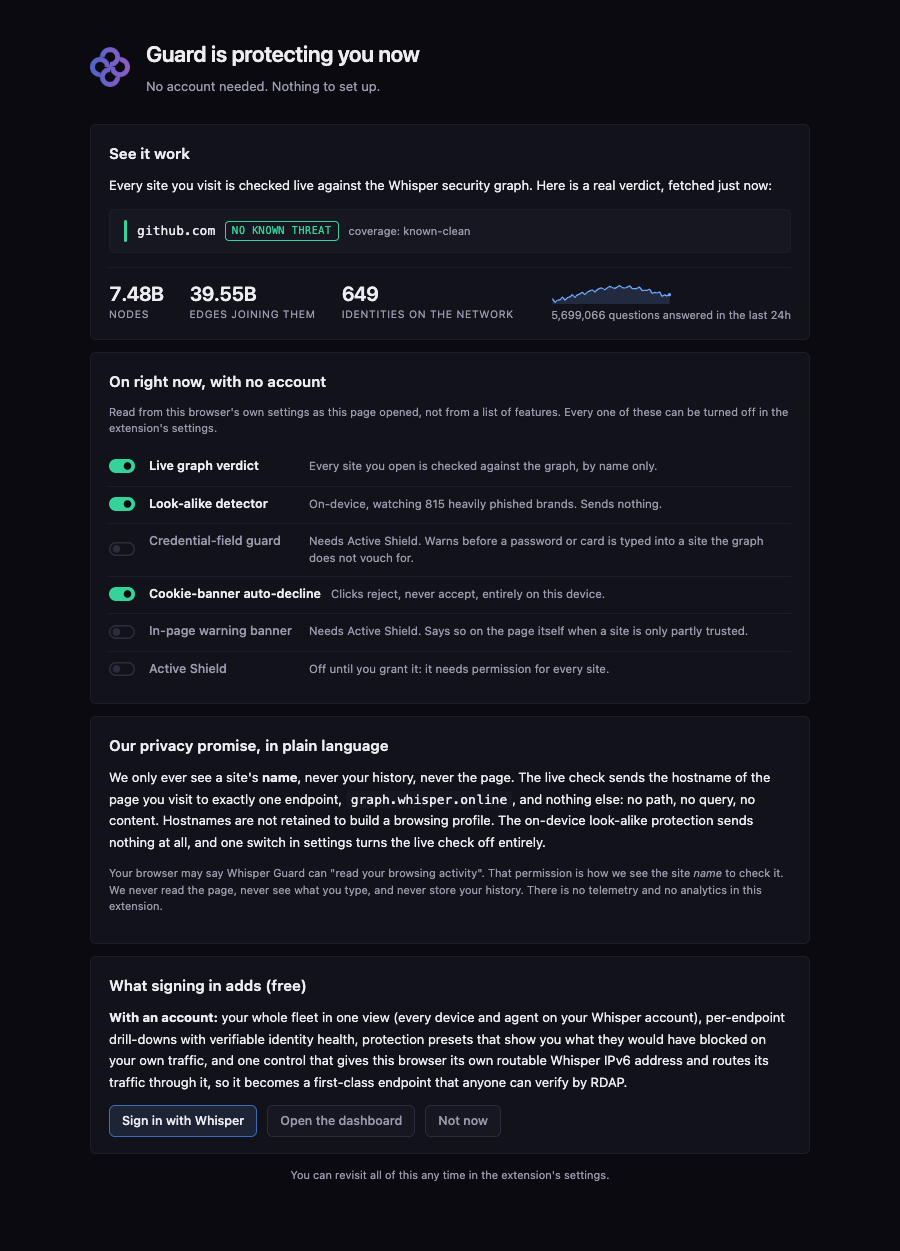
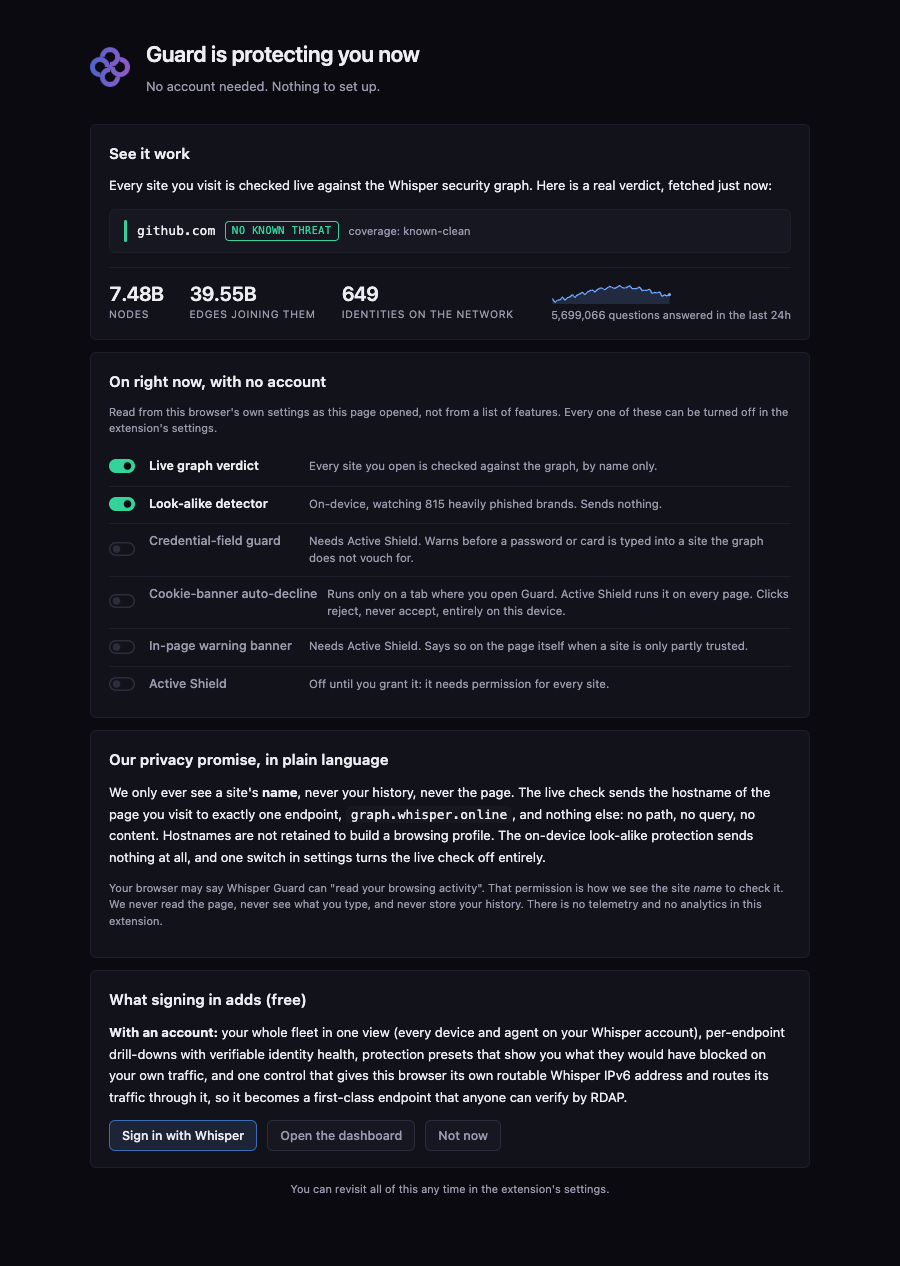
fix(firstrun): say where cookie auto-decline can run
The first-run page drew "Cookie-banner auto-decline" as on from the stored
setting alone. Without Active Shield the decline runs only on a tab where
the reader opens Guard, so the row claimed more than was happening.

The first-run row and the Settings toggle now say where it runs: only on a
tab where Guard is opened, or on every page once Active Shield is on and
the all-sites permission is held. The first-run row is drawn on only in the
second case. The Settings toggle stays usable and keeps the stored
preference; a note beside it carries the reach and updates without a
reload.

Refs #66

diff --git a/e2e/shield-dependent.spec.ts b/e2e/shield-dependent.spec.ts
@@ -4,8 +4,9 @@
 // The credential-field guard and the in-page banner cannot run until Active
 // Shield is on (the setting AND the all-sites grant). Neither the first-run
 // page nor Settings may draw them on before then, and the stored preference
-// must survive. The grant arrives install-time via makeShieldDist; the
-// default dist holds no grant.
+// must survive. The cookie decline runs without Active Shield, but only on a
+// tab where Guard is opened, so both pages say where it can run. The grant
+// arrives install-time via makeShieldDist; the default dist holds no grant.
 
 import { test, expect, type Page } from "@playwright/test";
 import { launchExtension, makeShieldDist, setSettings, type Extension } from "./helpers/extension";
@@ -63,6 +64,37 @@ test.describe("no all-sites grant", () => {
     expect(s["amberBanner"]).toBe(true);
     expect(s["fieldGuard"]).toBe(true);
     await page.close();
+  });
+
+  test("cookie decline: on a fresh profile both pages say it runs only on a tab where Guard is opened", async () => {
+    // Nothing is stored yet: the defaults are what a new install shows.
+    const first = await open(ext, "firstrun.html");
+    await expect(row(first, "cookieDecline")).toHaveAttribute("data-state", "tab-only");
+    await expect(row(first, "cookieDecline")).toContainText(/only on a tab where you open Guard/i);
+    await expect(row(first, "cookieDecline")).toContainText("Clicks reject, never accept, entirely on this device.");
+    await expect(row(first, "cookieDecline").locator("svg title")).toHaveText("only on a tab where you open Guard");
+    await first.close();
+    const opts = await open(ext, "options.html");
+    await expect(opts.locator("#opt-cookiedecline")).toBeChecked();
+    await expect(opts.locator("#opt-cookiedecline")).toBeEnabled();
+    await expect(opts.locator("#opt-cookiedecline")).toHaveAttribute("aria-describedby", "cookiedecline-reach");
+    await expect(opts.locator("#cookiedecline-reach")).toBeVisible();
+    await expect(opts.locator("#cookiedecline-reach")).toHaveText(/only on a tab where you open Guard/i);
+    await opts.close();
+  });
+
+  test("cookie decline: switched off it reads off on both pages", async () => {
+    await setSettings(ext, { cookieDecline: false });
+    const first = await open(ext, "firstrun.html");
+    await expect(row(first, "cookieDecline")).toHaveAttribute("data-state", "off");
+    await first.close();
+    const opts = await open(ext, "options.html");
+    await expect(opts.locator("#opt-cookiedecline")).not.toBeChecked();
+    await expect(opts.locator("#cookiedecline-reach")).toBeAttached();
+    await expect(opts.locator("#cookiedecline-reach")).toBeHidden();
+    await expect(opts.locator("#cookiedecline-reach")).toHaveText("");
+    await opts.close();
+    await setSettings(ext, { cookieDecline: true });
   });
 });
 
@@ -128,5 +160,59 @@ test.describe("all-sites grant held", () => {
     await expect(opts.locator("#opt-fieldguard")).toBeEnabled();
     await expect(opts.locator("#banner-needs")).toBeHidden();
     await opts.close();
+  });
+
+  test("cookie decline: grant held with Active Shield off reads as only on a tab where Guard is opened", async () => {
+    await setSettings(ext, { shield: false, cookieDecline: true });
+    const first = await open(ext, "firstrun.html");
+    await expect(row(first, "cookieDecline")).toHaveAttribute("data-state", "tab-only");
+    await expect(row(first, "cookieDecline")).toContainText(/only on a tab where you open Guard/i);
+    await first.close();
+    const opts = await open(ext, "options.html");
+    await expect(opts.locator("#opt-cookiedecline")).toBeChecked();
+    await expect(opts.locator("#opt-cookiedecline")).toBeEnabled();
+    await expect(opts.locator("#cookiedecline-reach")).toHaveText(/only on a tab where you open Guard/i);
+    await opts.close();
+  });
+
+  test("cookie decline: with Active Shield on and granted both pages read as running on every page", async () => {
+    await setSettings(ext, { shield: true, cookieDecline: true });
+    const first = await open(ext, "firstrun.html");
+    await expect(row(first, "cookieDecline")).toHaveAttribute("data-state", "on");
+    await expect(row(first, "cookieDecline")).toContainText("Runs on every page.");
+    await expect(row(first, "cookieDecline")).toContainText("Clicks reject, never accept, entirely on this device.");
+    await expect(row(first, "cookieDecline")).not.toContainText(/only on a tab/i);
+    await first.close();
+    const opts = await open(ext, "options.html");
+    await expect(opts.locator("#opt-cookiedecline")).toBeChecked();
+    await expect(opts.locator("#cookiedecline-reach")).toHaveText("Runs on every page.");
+    await opts.close();
+  });
+
+  test("cookie decline: with the setting off it reads off even when Active Shield is on", async () => {
+    await setSettings(ext, { shield: true, cookieDecline: false });
+    const first = await open(ext, "firstrun.html");
+    await expect(row(first, "cookieDecline")).toHaveAttribute("data-state", "off");
+    await first.close();
+    await setSettings(ext, { cookieDecline: true });
+  });
+
+  test("settings: the cookie decline note updates without a reload when Active Shield is switched on", async () => {
+    await setSettings(ext, { shield: false, cookieDecline: true });
+    const opts = await open(ext, "options.html");
+    await expect(opts.locator("#cookiedecline-reach")).toHaveText(/only on a tab where you open Guard/i);
+    await opts.locator("#opt-shield").check();
+    await expect(opts.locator("#cookiedecline-reach")).toHaveText("Runs on every page.");
+    await expect(opts.locator("#opt-cookiedecline")).toBeChecked();
+    await opts.close();
+  });
+
+  test("first run: the cookie decline row flips to every page when Active Shield is switched on", async () => {
+    await setSettings(ext, { shield: false, cookieDecline: true });
+    const first = await open(ext, "firstrun.html");
+    await expect(row(first, "cookieDecline")).toHaveAttribute("data-state", "tab-only");
+    await setSettings(ext, { shield: true });
+    await expect(row(first, "cookieDecline")).toHaveAttribute("data-state", "on");
+    await first.close();
   });
 });

diff --git a/src/pages/firstrun.ts b/src/pages/firstrun.ts
@@ -136,7 +136,12 @@ function stateMark(on: boolean, title?: string): SVGSVGElement {
   return svg;
 }
 
-type RowState = "on" | "off" | "needs-shield";
+type RowState = "on" | "off" | "needs-shield" | "tab-only";
+
+const MARK_TITLE: Partial<Record<RowState, string>> = {
+  "needs-shield": "needs Active Shield",
+  "tab-only": "only on a tab where you open Guard",
+};
 
 function activeRow(state: boolean | RowState, name: string, detail: string, key?: string): HTMLElement {
   const st: RowState = state === true ? "on" : state === false ? "off" : state;
@@ -144,7 +149,7 @@ function activeRow(state: boolean | RowState, name: string, detail: string, key?
   if (key) row.dataset["key"] = key;
   row.dataset["state"] = st;
   const mark = el("span", "active-mark");
-  mark.appendChild(stateMark(st === "on", st === "needs-shield" ? "needs Active Shield" : undefined));
+  mark.appendChild(stateMark(st === "on", MARK_TITLE[st]));
   row.append(mark, el("span", "active-name", name), el("span", "active-detail", detail));
   return row;
 }
@@ -175,6 +180,15 @@ async function loadActive(): Promise<void> {
   // The brand figure is the corpus the detector loaded, counted. When it
   // could not be counted the sentence simply does not carry a number.
   const brands = res.corpusBrands > 0 ? `${res.corpusBrands.toLocaleString("en")} heavily phished brands` : "the bundled brand list";
+  // Where the cookie decline can run. Without Active Shield that is only a tab
+  // the reader opened Guard on, so the row is never drawn as fully on.
+  const cookieState: RowState = !s.cookieDecline ? "off" : active ? "on" : "tab-only";
+  const cookieReach =
+    cookieState === "on"
+      ? "Runs on every page. "
+      : cookieState === "tab-only"
+        ? "Runs only on a tab where you open Guard. Active Shield runs it on every page. "
+        : "";
   list.replaceChildren(
     activeRow(
       s.cloudCheck,
@@ -191,9 +205,10 @@ async function loadActive(): Promise<void> {
       "fieldGuard",
     ),
     activeRow(
-      s.cookieDecline,
+      cookieState,
       "Cookie-banner auto-decline",
-      "Clicks reject, never accept, entirely on this device.",
+      `${cookieReach}Clicks reject, never accept, entirely on this device.`,
+      "cookieDecline",
     ),
     activeRow(
       gated(s.amberBanner),

diff --git a/src/options/options.html b/src/options/options.html
@@ -99,11 +99,12 @@
         <span class="w-note needs-shield" id="fieldguard-needs" hidden>needs Active Shield</span></span>
       </label>
       <label class="toggle">
-        <input type="checkbox" id="opt-cookiedecline">
+        <input type="checkbox" id="opt-cookiedecline" aria-describedby="cookiedecline-reach">
         <span>Decline cookie pop-ups for me. Where Guard runs on the page, it clicks the
         banner's own "Reject all" / "necessary only" button, never "accept", and if it
         is not sure, it leaves the page alone. Entirely on this device; nothing about
-        the page leaves the browser.</span>
+        the page leaves the browser.
+        <span class="w-note" id="cookiedecline-reach" hidden></span></span>
       </label>
     </section>
 

diff --git a/src/options/options.ts b/src/options/options.ts
@@ -33,6 +33,15 @@ async function renderShieldDeps(settings: Settings): Promise<void> {
     check(id).disabled = !active;
     $(noteId).hidden = active;
   }
+  // The cookie decline toggle stays usable and keeps the stored preference;
+  // the note only says where it can run.
+  const reach = $("cookiedecline-reach");
+  reach.hidden = !settings.cookieDecline;
+  reach.textContent = !settings.cookieDecline
+    ? ""
+    : active
+      ? "Runs on every page."
+      : "Runs only on a tab where you open Guard. Active Shield runs it on every page.";
 }
 
 async function readSettings(): Promise<Settings | null> {
